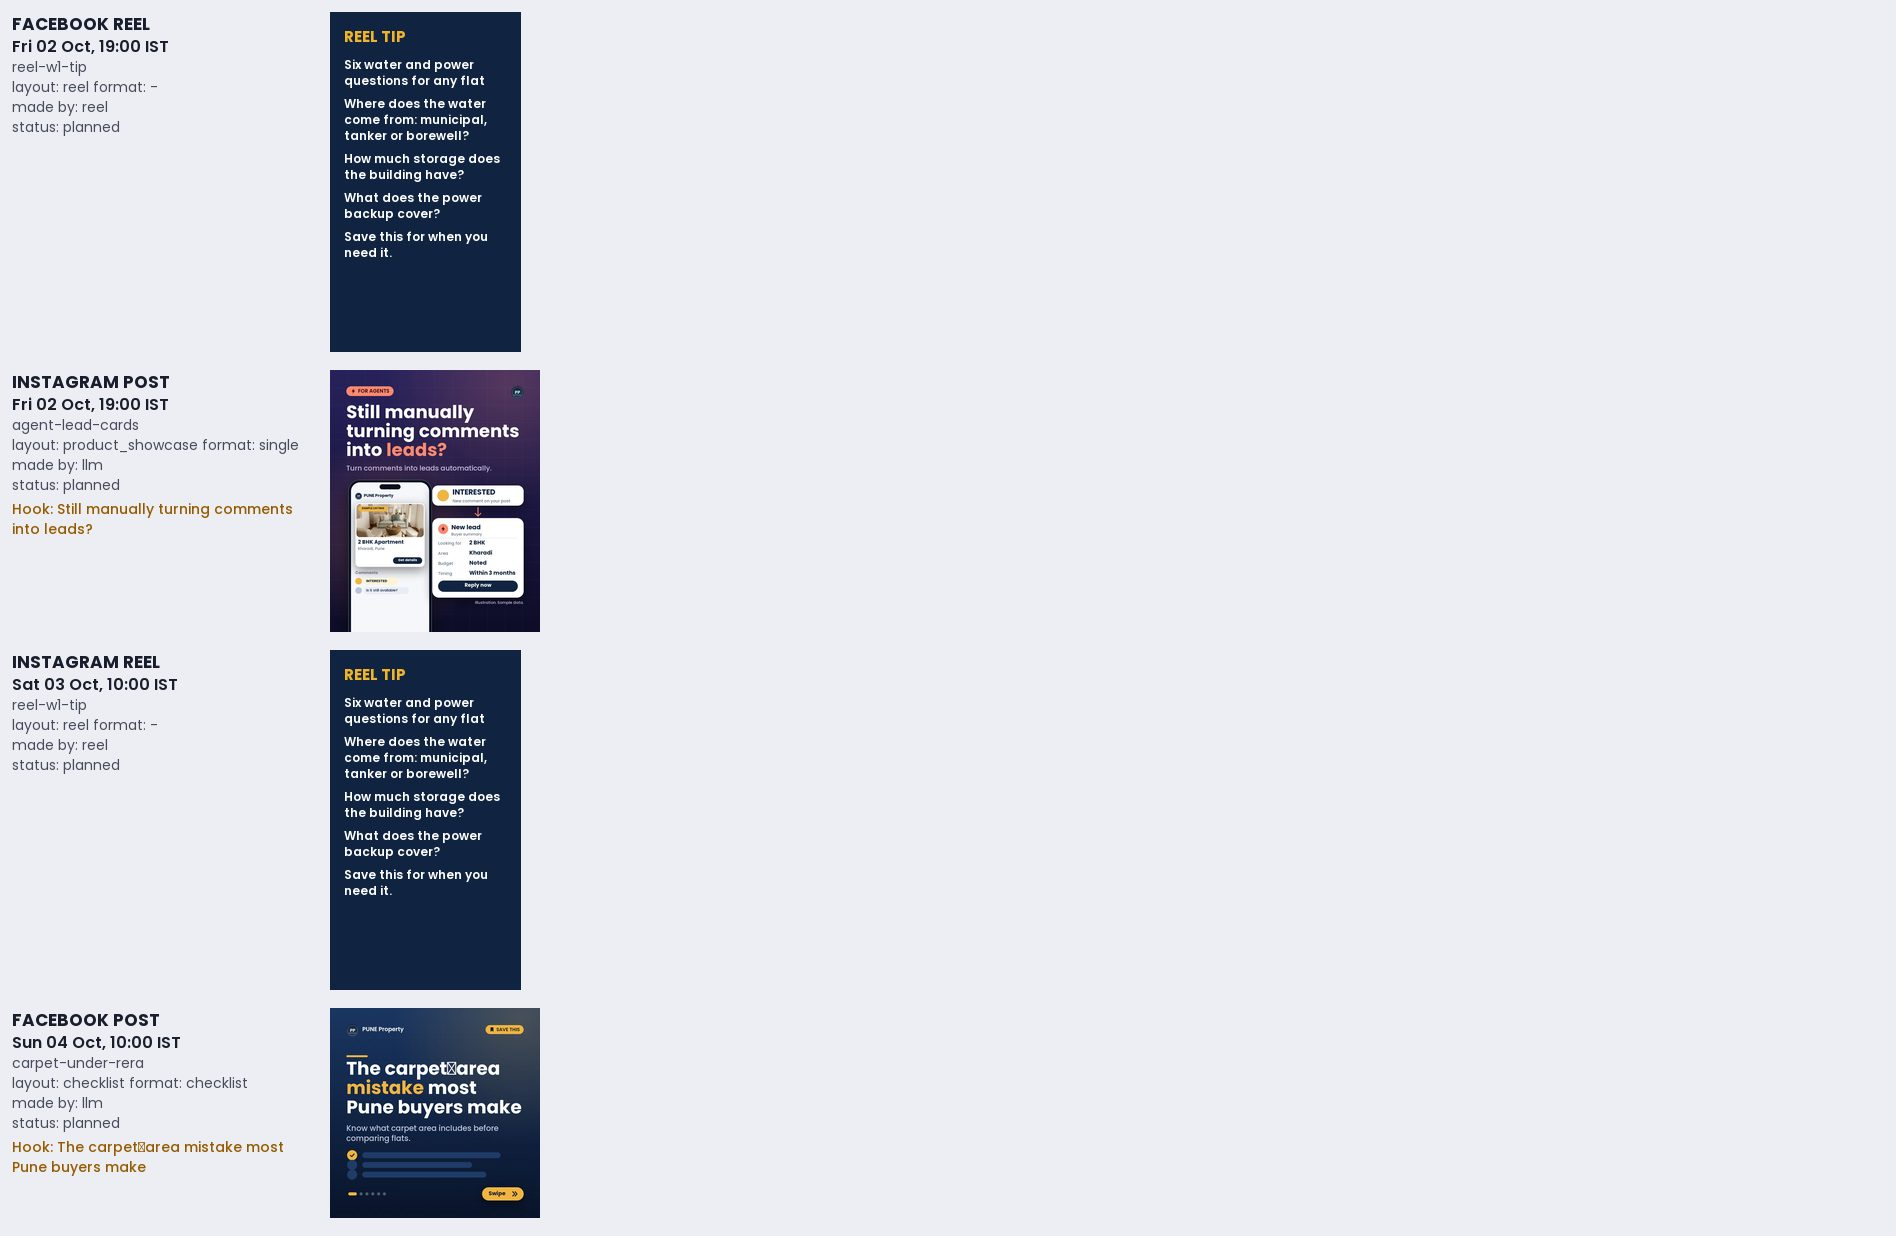
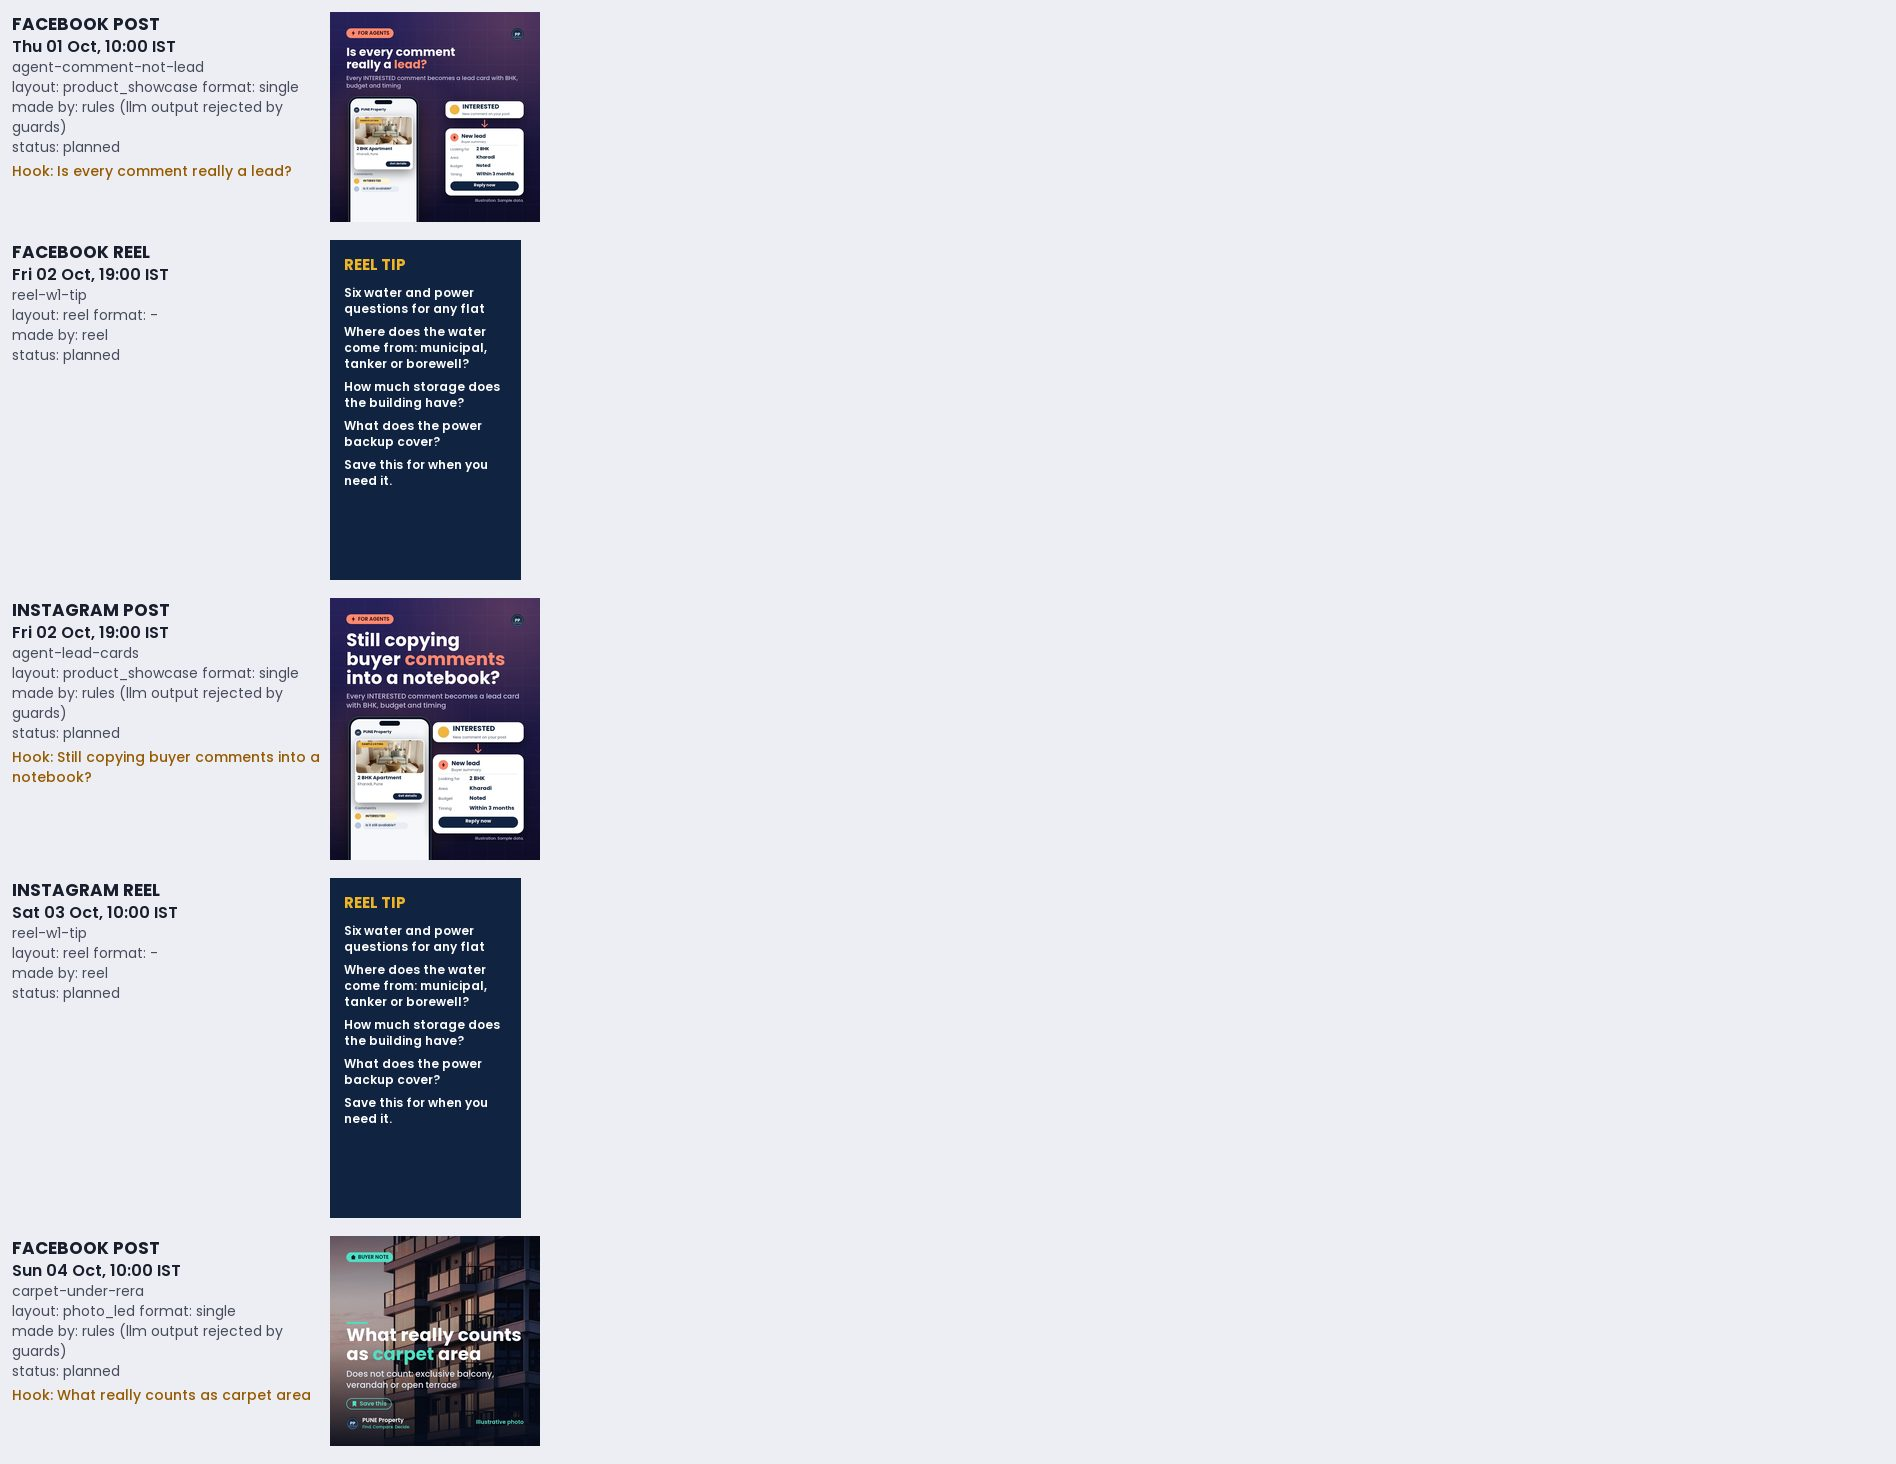
Newsroom: a headline-only item uses its own headline as the checkable fact

Changed region(s): [[0.0, 0.0, 0.3112, 0.7686], [0.0, 0.7994, 0.3112, 1.0], [0.0, 0.1537, 0.0934, 0.246]]

diff --git a/backend/app/modules/newsroom/stages/extract.py b/backend/app/modules/newsroom/stages/extract.py
@@ -41,7 +41,22 @@ def _valid(text: str, quote: str, sources: List[str]) -> bool:
     return all(n in quote_nums for n in _numbers(text))
 
 
+def headline_fact(item: RawItem) -> Optional[Facts]:
+    """When a source gives only a headline, the publisher's own headline is the one checkable statement: use it as the fact
+    (its quote is the headline itself), minus a trailing ' - Publisher' tag."""
+    title = _norm(re.sub(r"\s[-|–—]\s[^-|–—]{2,40}$", "", item.title or ""))
+    body = _norm(item.text or "")
+    if len(title) < MIN_QUOTE_CHARS or (body and len(body) > len(title) + 40):
+        return None  # there is real article text: the LLM path should have found facts
+    return Facts(facts=[Fact(text=title, quote=title)], as_of=item.published_at or item.fetched_at)
+
+
 async def extract(item: RawItem, llm: Llm) -> Optional[Facts]:
+    got = await _extract_llm(item, llm)
+    return got or headline_fact(item)
+
+
+async def _extract_llm(item: RawItem, llm: Llm) -> Optional[Facts]:
     user = f"Title: {item.title}\n\nArticle:\n{(item.text or '')[:MAX_SOURCE_CHARS]}"
     try:
         data = await llm.json(SYSTEM, user)
